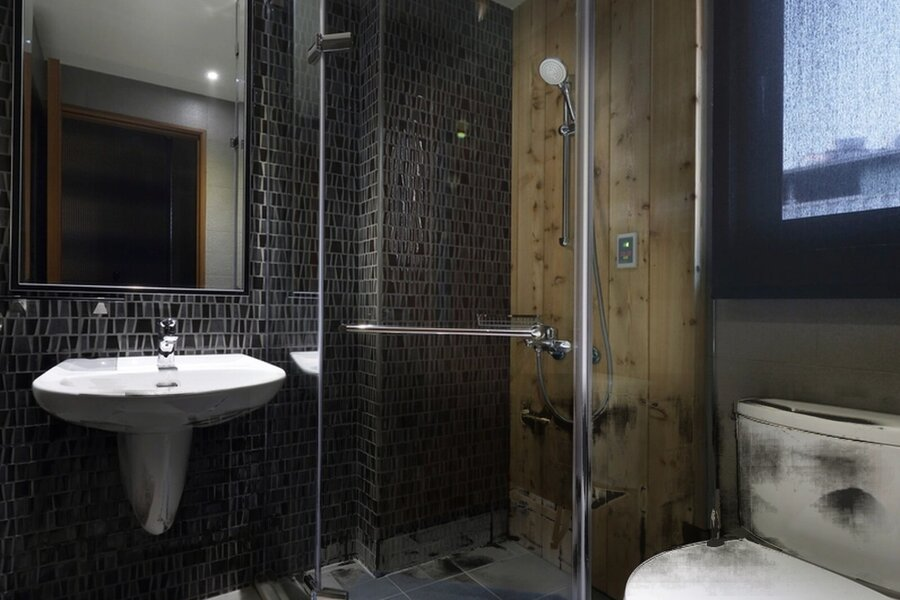
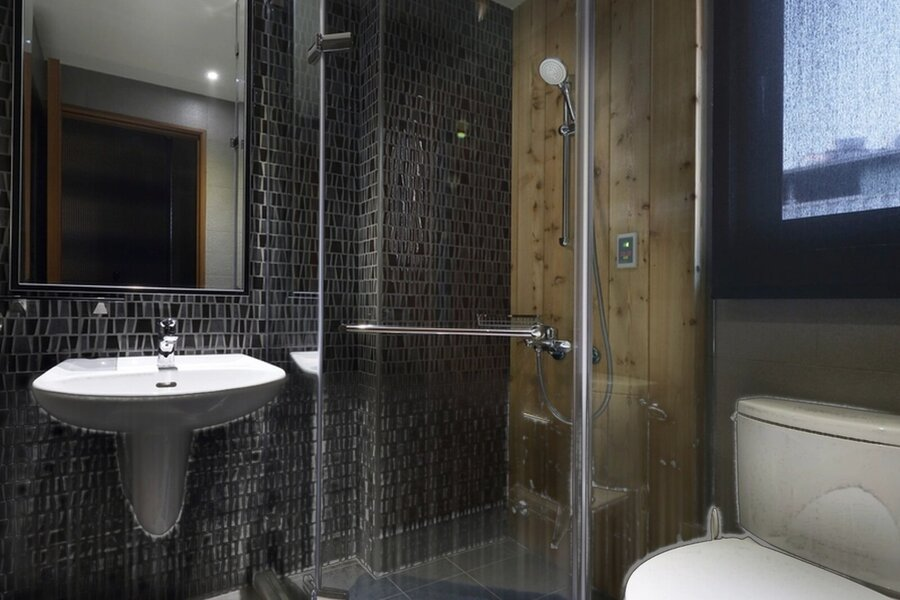
Rebuild the bathroom grime from the room's geometry, not painted on top
The bathroom before looked fake, and it was: amplifying its generated dirt
produced soft airbrushed charcoal clouds with feathered edges, smeared in
streaks across the toilet cistern and floating on the wooden wall. Amplifying
the darkening of a low-strength img2img can only ever yield amorphous blobs -
they ignore the form of whatever they sit on. Sooty black on a toilet cistern
is not how a toilet gets dirty in any case.

crevice_grime.py derives the dirt from the clean plate's own structure, with no
model involved, so nothing can be invented and the grime is keyed to the tile
grid rather than floating over it:

  crevice  where a pixel is darker than its surroundings - grout lines,
           silicone seams, the gaps between mosaic tiles, ie where water sits
  settled  a downward bias, because grime collects low and in corners
  speckle  fixed-seed noise, so it breaks up instead of reading as a wash

The bigger correction: this room is DARK. Against black mosaic tiles,
darkening barely registers, so the "dirt only ever absorbs light" rule that is
correct for a pale floor is wrong here. What reads as filth in a dark bathroom
is the opposite - pale limescale and soap scum, added toward white in the same
grout the mould follows, plus vertical streaks where water ran down the glass
and dried.

bathroom is removed from boost_grime.py's table so the two cannot both write
it. Alt text updated to match what is now shown.

Changed region(s): [[0.0, 0.63, 0.9956, 1.0], [0.9022, 0.93, 0.9333, 0.96]]

diff --git a/index.html b/index.html
@@ -116,10 +116,10 @@
              aria-label="Illustrative before and after: bathrooms and shower rooms"
              aria-description="Drag, swipe, or use the left and right arrow keys to compare the illustrative before and after preview."
              aria-valuemin="0" aria-valuemax="100" aria-valuenow="50">
-          <img class="ba__img--before" src="img/ba/bathroom-before.jpg?v=81017542"
-               srcset="img/ba/bathroom-before-480.jpg?v=31ed37b8 480w, img/ba/bathroom-before-900.jpg?v=def70fe8 900w, img/ba/bathroom-before.jpg?v=81017542 1600w"
+          <img class="ba__img--before" src="img/ba/bathroom-before.jpg?v=3a9ff6d3"
+               srcset="img/ba/bathroom-before-480.jpg?v=4d71d0b3 480w, img/ba/bathroom-before-900.jpg?v=446c6eb2 900w, img/ba/bathroom-before.jpg?v=3a9ff6d3 1600w"
                sizes="(max-width: 820px) 92vw, 46vw"
-               alt="Illustrative before: a bathroom with grimy staining on the toilet, shower base and lower tiles" width="1600" height="1067" loading="lazy" decoding="async">
+               alt="Illustrative before: a bathroom with limescale and soap scum built up in the tile grout, streaked on the shower glass and dulling the basin" width="1600" height="1067" loading="lazy" decoding="async">
           <div class="ba__after-wrap">
             <img src="img/ba/bathroom-after.jpg?v=9ec629ca"
                  srcset="img/ba/bathroom-after-480.jpg?v=3c2e9b2a 480w, img/ba/bathroom-after-900.jpg?v=911690f4 900w, img/ba/bathroom-after.jpg?v=9ec629ca 1600w"

diff --git a/tools/ai-image-generation/crevice_grime.py b/tools/ai-image-generation/crevice_grime.py
@@ -1,0 +1,126 @@
+#!/usr/bin/env python3
+"""Bathroom grime built from the room's own geometry, not painted on top.
+
+The generated-and-amplified approach produced exactly the look people mean by
+"AI slop": soft airbrushed charcoal clouds with feathered edges, smeared in
+streaks across the toilet cistern and floating on the wooden wall. Amplifying
+the darkening of a low-strength img2img can only ever yield amorphous blobs -
+they ignore the form of whatever they sit on, and sooty black on porcelain is
+not how a toilet gets dirty anyway.
+
+Real bathroom grime follows geometry. Mould grows in grout lines, silicone
+seams and corners, because that is where water sits. Limescale is pale, not
+black, and collects where water runs and dries. So derive the dirt from the
+clean plate's own structure:
+
+  crevice  where a pixel is darker than its surroundings - grout lines, seams,
+           the gaps between mosaic tiles, the join at the floor
+  settled  a downward bias, because grime collects low and in corners
+  speckle  fixed-seed noise so it breaks up instead of reading as a wash
+
+Grime is then multiplied in, tinted, and deliberately held back on large smooth
+bright areas so the porcelain gets a dull film rather than soot. Nothing is
+generated, so nothing can be invented, and because the grime is keyed to the
+tile grid it cannot float free of the surface.
+"""
+import sys, numpy as np
+from PIL import Image, ImageFilter
+sys.path.insert(0, "/Users/llp/mums-cleaning-site/tools/ai-image-generation")
+from ai_tiled_dirt import JOBS, W, H, feather_mask
+
+RAW = "/tmp/ai-raw"
+SRC = "assets-source/ai-raw"
+
+CFG = {
+    "bathroom": dict(
+        crevice=1.45,     # mould in the grout and seams
+        settled=0.30,     # grime collecting toward the floor
+        film=0.13,        # dull film over everything in the crop
+        porcelain=0.30,   # how much of that reaches bright smooth surfaces
+        tint=(1.0, 0.965, 0.90),
+        # This room is dark - black mosaic tiles - so darkening barely shows.
+        # What actually reads as filth here is the opposite: pale limescale and
+        # soap scum, which are LIGHTER than the surface they sit on.
+        lime=0.85,        # chalky deposits in the grout and around fittings
+        streak=0.48,      # dried water runs down the glass and tiles
+    ),
+}
+
+def resolve(name):
+    import os
+    for p in (f"{RAW}/{name}", f"{SRC}/{name}"):
+        if os.path.exists(p):
+            return p
+    raise SystemExit(f"missing {name}")
+
+def run(card):
+    c = CFG[card]
+    after = Image.open(resolve(f"{card}-after.png")).convert("RGB").resize((W, H), Image.LANCZOS)
+    A = np.asarray(after).astype(np.float32)
+    L = A[..., 0]*0.299 + A[..., 1]*0.587 + A[..., 2]*0.114
+
+    blur = np.asarray(Image.fromarray(L.astype(np.uint8))
+                      .filter(ImageFilter.GaussianBlur(4))).astype(np.float32)
+    crevice = np.clip((blur - L) / 26.0, 0, 1)          # darker than neighbours
+    crevice = np.asarray(Image.fromarray((crevice*255).astype(np.uint8))
+                         .filter(ImageFilter.GaussianBlur(0.8))).astype(np.float32)/255.0
+
+    x0, y0, x1, y1 = JOBS[card]["crop"]
+    bx = (int(x0*W), int(y0*H), int(x1*W), int(y1*H))
+    sw, sh = bx[2]-bx[0], bx[3]-bx[1]
+    m = Image.new("L", (W, H), 0)
+    m.paste(feather_mask(sw, sh, max(10, int(sh*0.16))), bx)
+    region = np.asarray(m).astype(np.float32)/255.0
+
+    ys = np.linspace(0, 1, H)[:, None] * np.ones((1, W), np.float32)
+    low = np.clip((ys - y0) / max(y1 - y0, 1e-6), 0, 1) ** 1.5      # heavier toward the floor
+
+    rng = np.random.RandomState(20260822)
+    speck = rng.rand(H, W).astype(np.float32)
+    speck = np.asarray(Image.fromarray((speck*255).astype(np.uint8))
+                       .filter(ImageFilter.GaussianBlur(1.1))).astype(np.float32)/255.0
+    speck = 0.55 + 0.9*speck
+
+    # porcelain and other big bright smooth areas take only a fraction
+    smooth = 1.0 - np.clip(crevice*3.0, 0, 1)
+    bright = np.clip((L - 120.0)/80.0, 0, 1)
+    shield = 1.0 - (bright*smooth)*(1.0 - c["porcelain"])
+
+    amount = (c["crevice"]*crevice*speck
+              + c["settled"]*low*crevice*2.0
+              + c["film"]*low) * region * shield
+    amount = np.clip(amount, 0, 0.80)
+
+    out = A * (1.0 - amount)[..., None]
+    tint = np.array(c["tint"], np.float32)
+    out = out * (1.0 - (1.0 - tint)*np.clip(amount*2.2, 0, 1)[..., None])
+
+    # Pale deposits. Limescale collects in the same grout and seams the mould
+    # does, so it is keyed to the same crevice map; the streaks run vertically
+    # because that is the way water dries. Added toward white, and only where
+    # the surface is dark enough for a chalky deposit to show.
+    runs = rng.rand(1, W).astype(np.float32).repeat(H, 0)
+    runs = np.asarray(Image.fromarray((runs*255).astype(np.uint8))
+                      .filter(ImageFilter.GaussianBlur(2.2))).astype(np.float32)/255.0
+    runs = np.clip((runs - 0.45) * 3.0, 0, 1)
+    vary = np.asarray(Image.fromarray((rng.rand(H, W)*255).astype(np.uint8))
+                      .filter(ImageFilter.GaussianBlur(9))).astype(np.float32)/255.0
+
+    dark_enough = np.clip((150.0 - L) / 110.0, 0, 1)
+    lime = (c["lime"]*crevice*speck + c["streak"]*runs*vary*low) * region * dark_enough
+    lime = np.clip(lime, 0, 0.55)
+    chalk = np.array([232, 234, 231], np.float32)
+    out = out + (chalk - out) * lime[..., None]
+    out = np.clip(out, 0, 255).astype(np.uint8)
+
+    Image.fromarray(out).save(f"{RAW}/{card}-before.png")
+    d = np.abs(out.astype(int) - A.astype(int)).max(2)
+    outside = region < 0.001
+    print(f"{card}: dirt {(d>26).mean()*100:.1f}% of frame | "
+          f"outside crop max = {int(d[outside].max()) if outside.any() else 0}", flush=True)
+
+if __name__ == "__main__":
+    import os
+    os.makedirs(RAW, exist_ok=True)
+    for card in (sys.argv[1:] or list(CFG)):
+        run(card)

diff --git a/tools/ai-image-generation/boost_grime.py b/tools/ai-image-generation/boost_grime.py
@@ -51,7 +51,9 @@ def resolve(name):
 # u = flat dulling across the cleaned surface, so it reads as "not cleaned"
 BOOST = {
     "floors":   dict(k=13.0, u=0.07),
-    "bathroom": dict(k=13.0, u=0.05),
+    # bathroom is NOT boosted - it is built by crevice_grime.py instead.
+    # Amplifying its generated dirt produced soft airbrushed charcoal clouds
+    # smeared across the toilet: the "AI slop" look. See crevice_grime.py.
     "bedroom":  dict(k=3.0, u=0.02),   # already reads clearly; barely touched
     "oven":     dict(k=15.0, u=0.13),
     "skirting": dict(k=9.0, u=0.05),

diff --git a/docs/OVEN-PIPELINE.md b/docs/OVEN-PIPELINE.md
@@ -129,3 +129,28 @@ floors crop moved up to the worktop (0.46-0.56) its band still ran to 0.85,
 leaving the cabinet doors below completely unchecked - which is precisely where
 the earlier scribbles-on-cupboards defect had appeared. Verified by injecting a
 smear at y=0.70 and confirming the check now fails on it.
+
+## The bathroom is built differently
+
+`crevice_grime.py`, not `boost_grime.py`. Amplifying the bathroom's generated
+dirt produced soft airbrushed charcoal clouds smeared across the toilet cistern
+and floating on the wooden wall - amorphous blobs that ignore the form of
+whatever they sit on. Sooty black on porcelain is not how a toilet gets dirty
+either.
+
+So the bathroom's grime is derived from the room's own geometry instead, with
+no model involved at all:
+
+- **crevice** - where a pixel is darker than its surroundings: grout lines,
+  silicone seams, the gaps between mosaic tiles. That is where water sits and
+  mould grows, and keying the dirt to it means the grime cannot float free of
+  the surface.
+- **settled** - a downward bias, because grime collects low and in corners.
+- **speckle** - fixed-seed noise, so it breaks up instead of reading as a wash.
+
+The other half matters more than it sounds: **this room is dark**. Black mosaic
+tiles mean darkening barely registers, so the "dirt only ever absorbs light"
+rule that is right for a pale floor is wrong here. What reads as filth in a
+dark bathroom is the opposite - pale limescale and soap scum, added toward
+white, in the same grout the mould follows, plus vertical streaks where water
+has run down the glass and dried.
